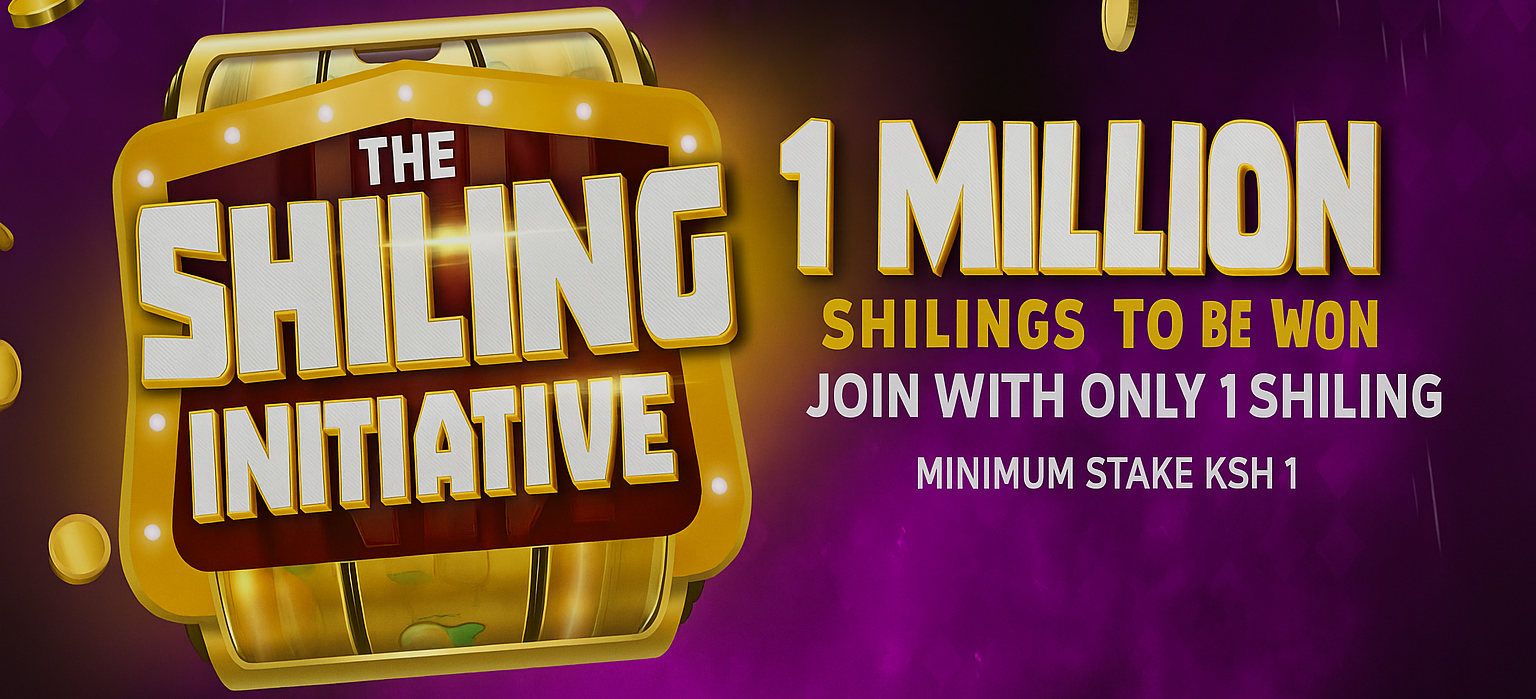
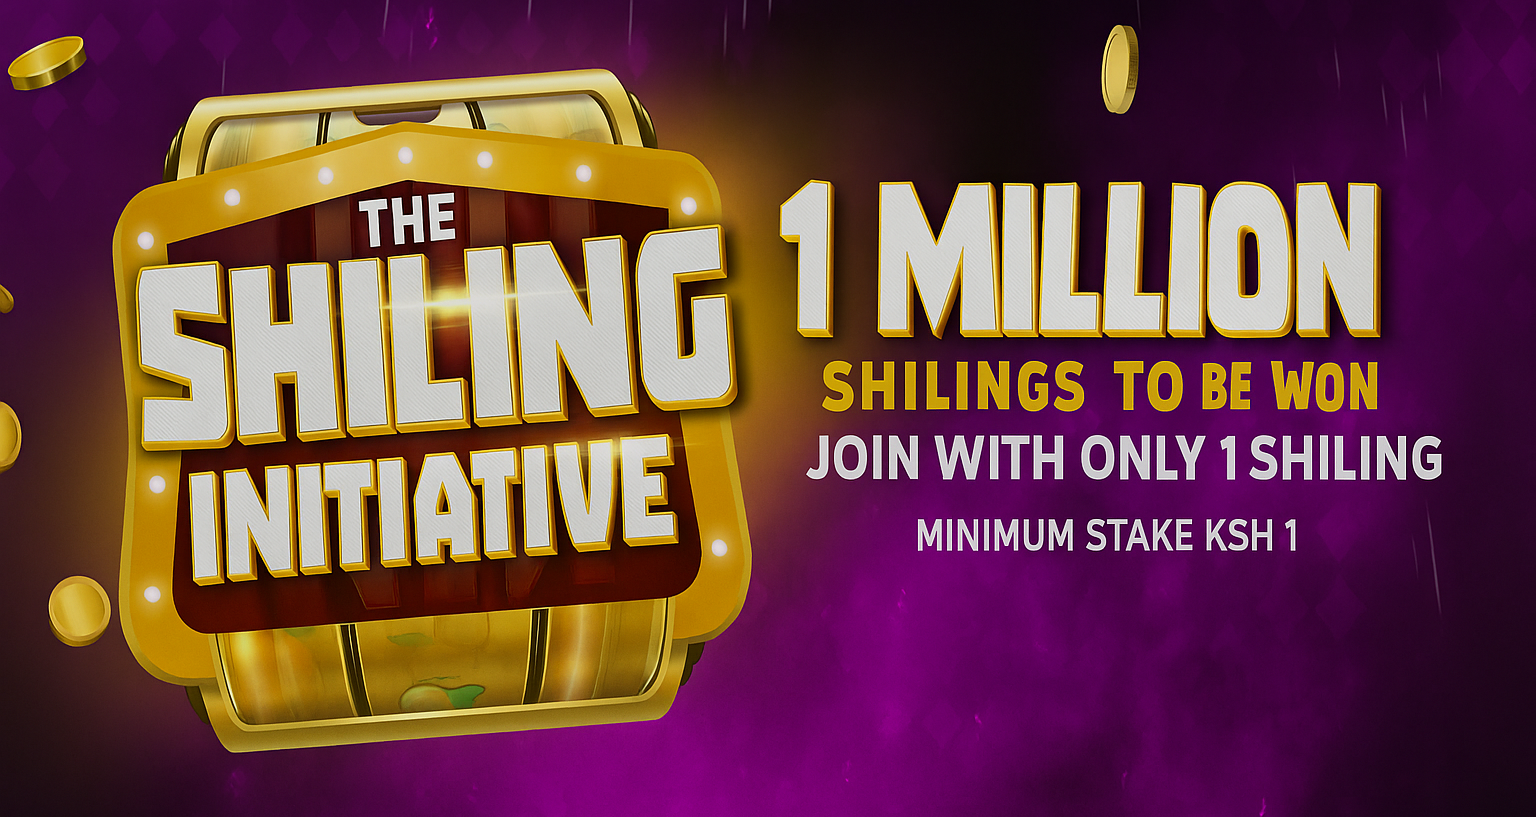
Initial commit with new code

diff --git a/client/src/components/Carddata.jsx b/client/src/components/Carddata.jsx
@@ -4,7 +4,8 @@ import { motion, AnimatePresence } from "framer-motion";
 
 const cardData = [
   {
-    image: "/shilingibanner.png",
+     imageSmall: "/shilingibanner.png",
+    imageLarge: "/shilingibanner2.png",
     title: "Win Ksh 1 Million",
     desc: "Join a community-powered luck pool where everyone has a fair shot to win 1 million shillings by stashing only 1 shilling.",
   },
@@ -133,11 +134,18 @@ Join now for just one bob —
           transition={{ duration: 0.4, delay: i * 0.1 }}
           className="overflow-hidden shadow-lg rounded-2xl bg-gradient-to-br from-[#111] to-[#1a1a1a] border-2 border-[#1b1f1c] text-white flex flex-col"
         >
-          <img
-            src={item.image}
-            alt={item.title}
-            className="w-full h-full object-cover object-center hover:scale-102 transition-transform duration-300"
-          />
+           <img
+      src={card.imageSmall}
+      alt={card.title}
+      className="block lg:hidden w-full rounded-xl"
+    />
+    
+    {/* Large Screen Image */}
+    <img
+      src={card.imageLarge}
+      alt={card.title}
+      className="hidden lg:block w-full rounded-xl"
+    />
           <div className="p-5 flex flex-col flex-grow">
             <h2 className="text-xl font-bold mb-2">{item.title}</h2>
             <p className="text-sm text-gray-300 mb-4">{item.desc}</p>
